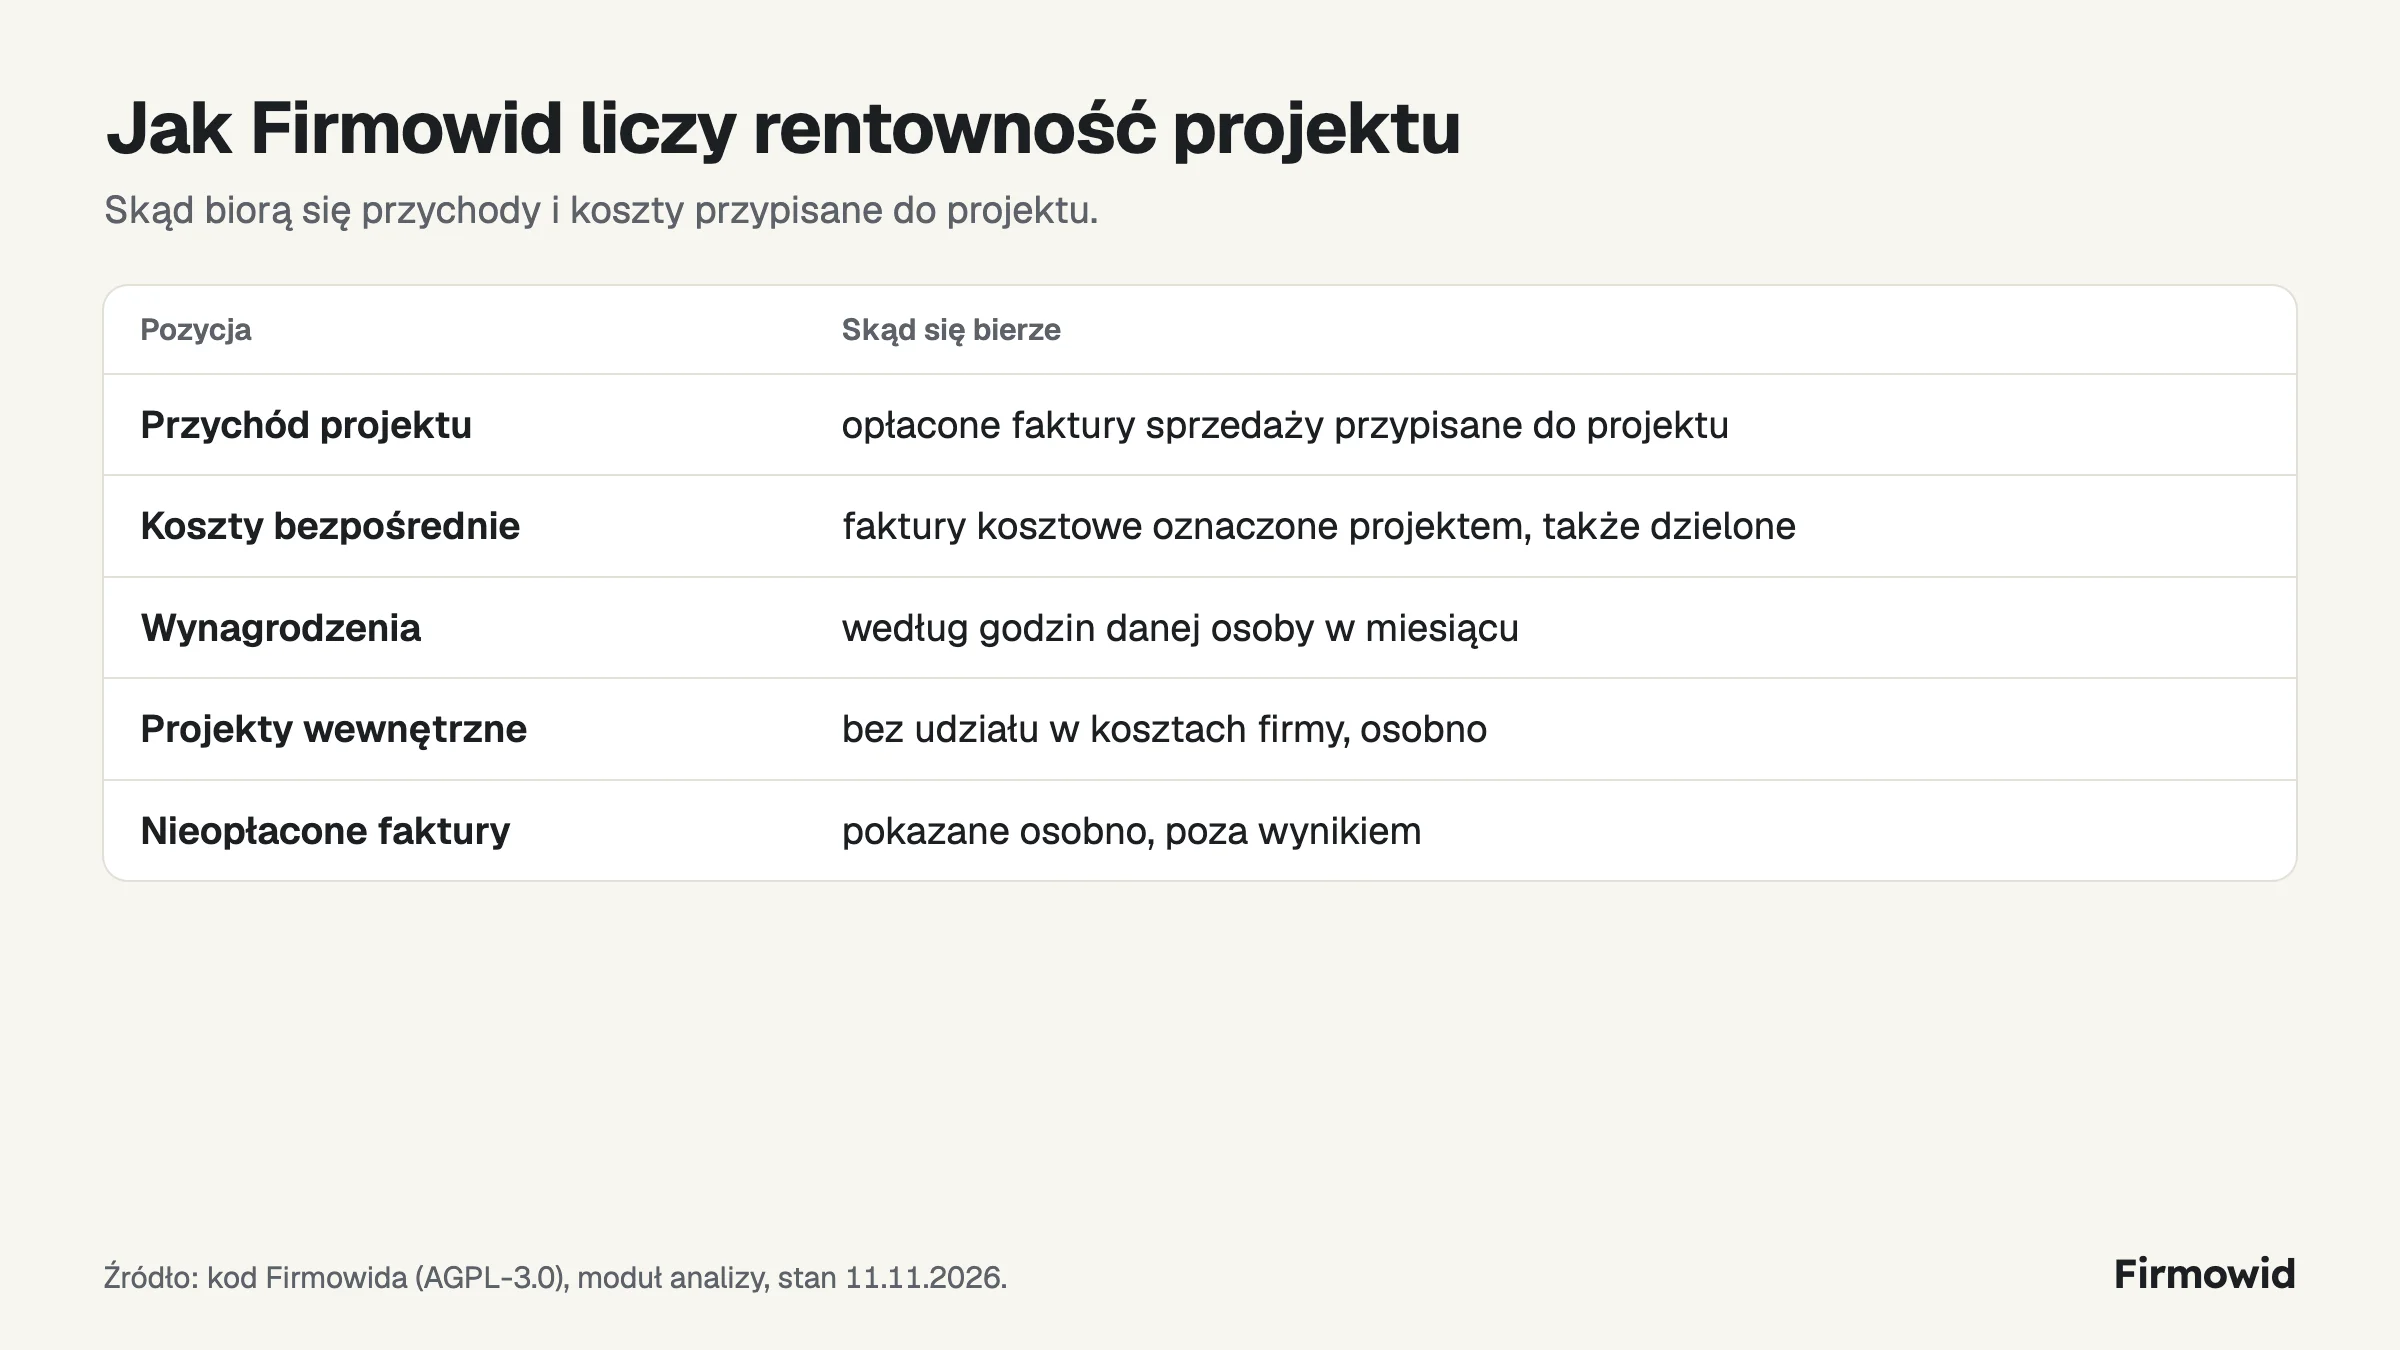
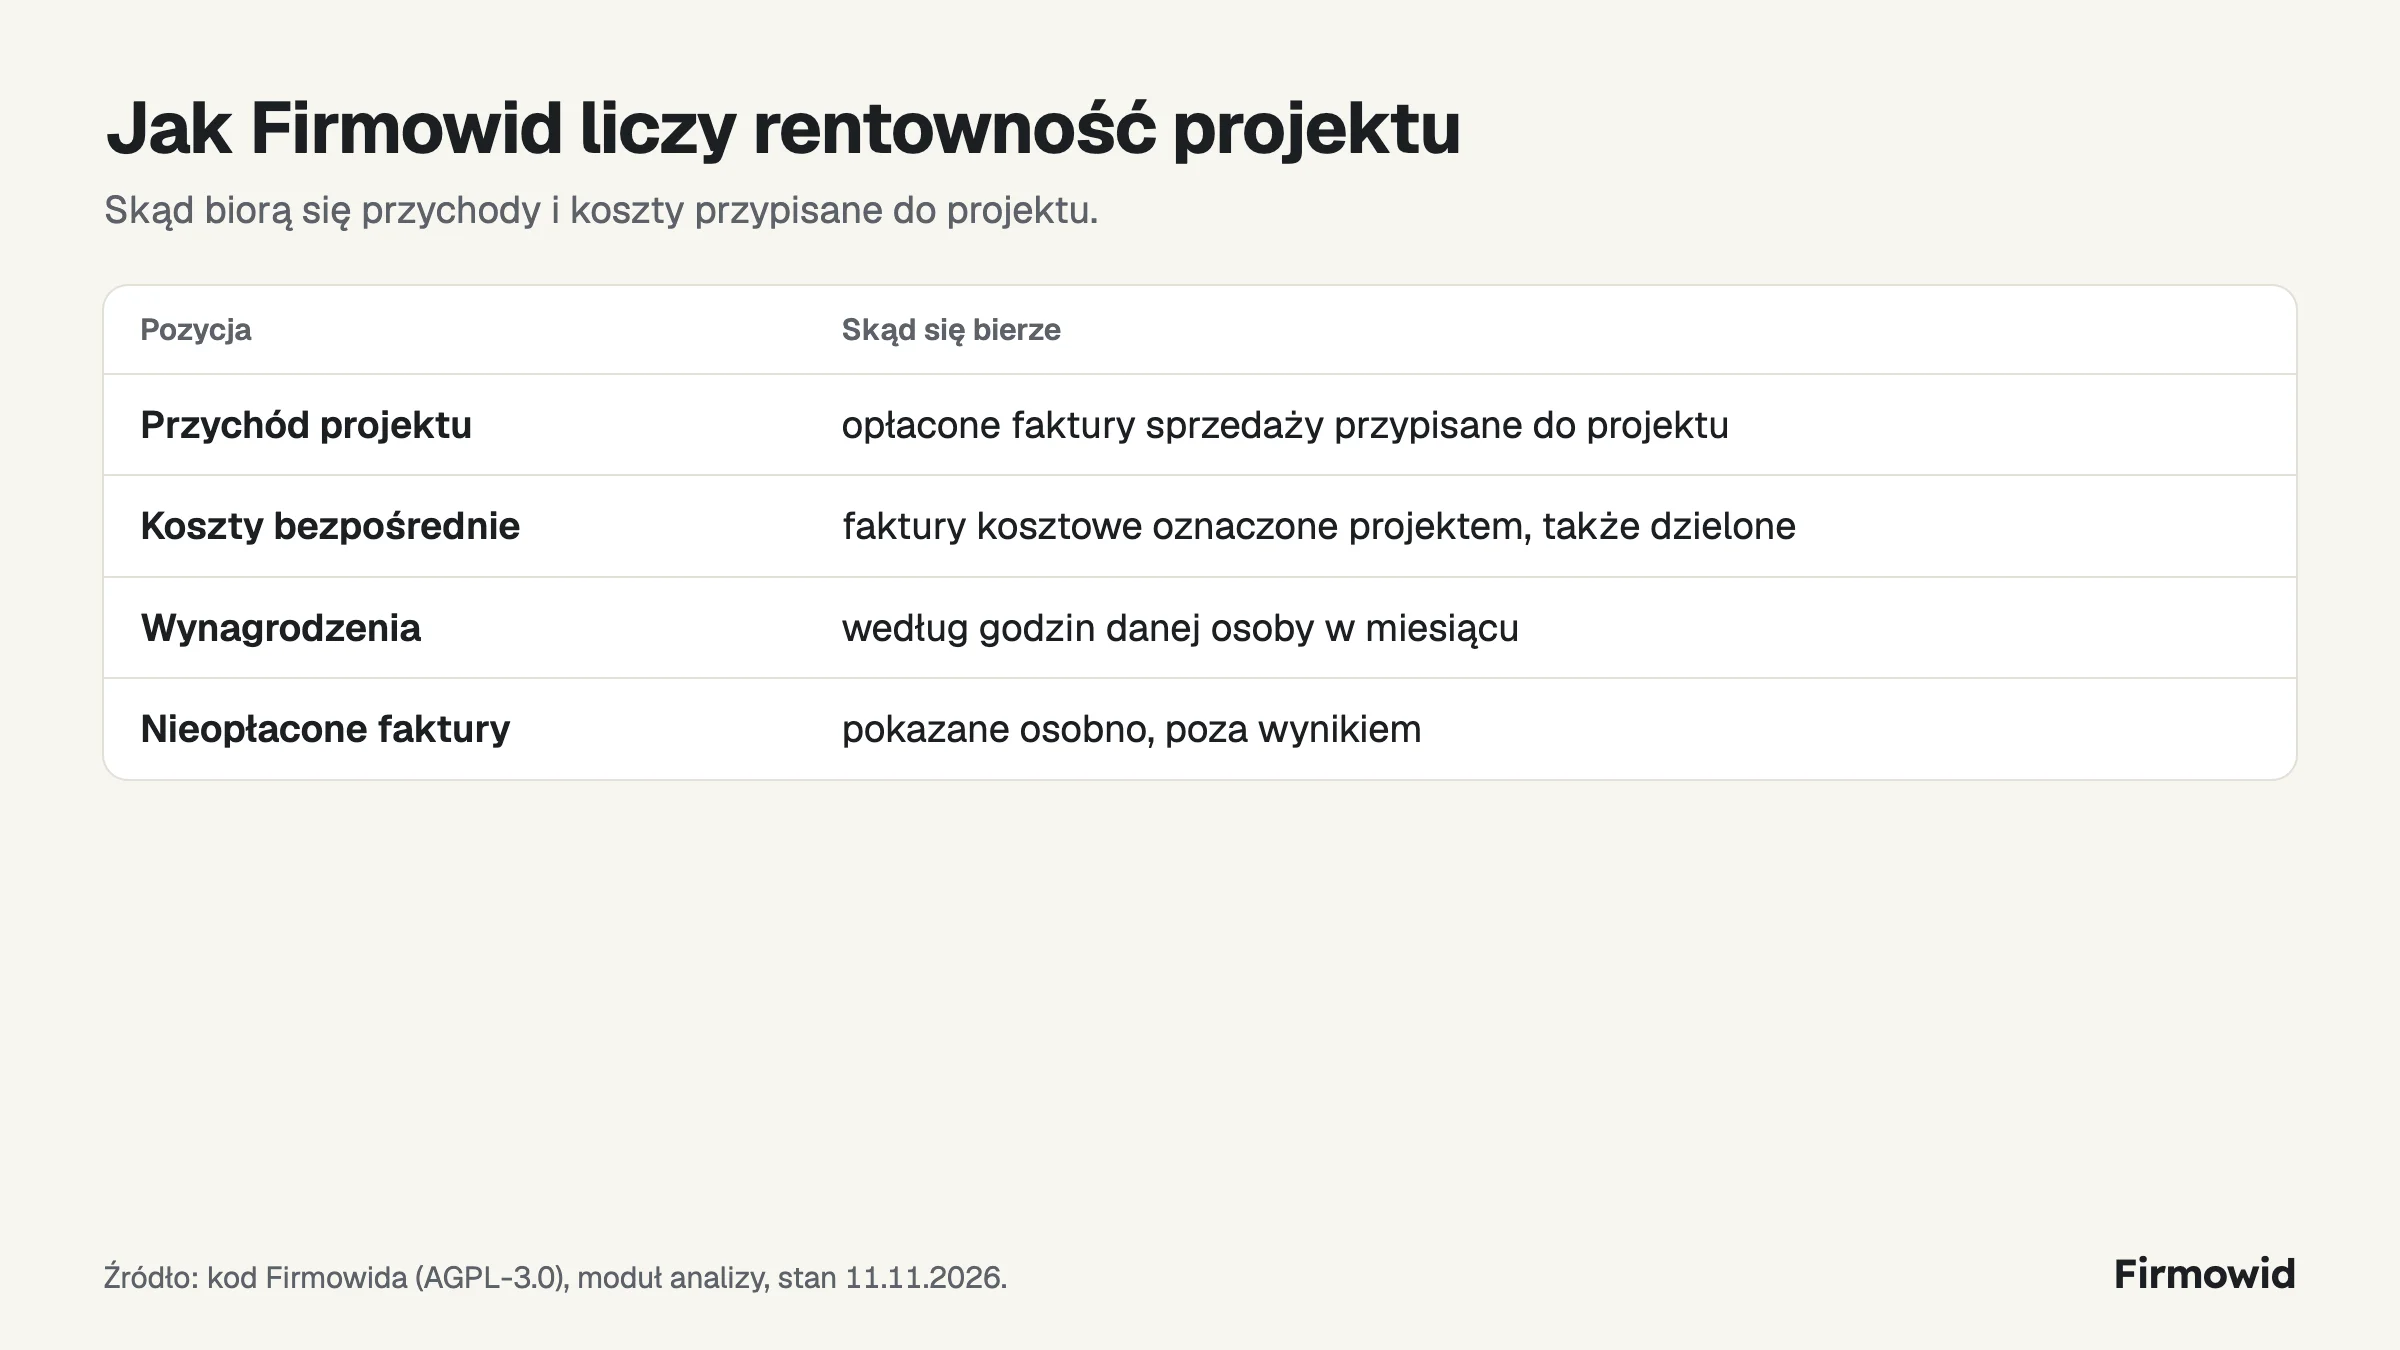
fix(guides): drop the internal projects row from the profitability guide
The row described projects as excluded from a share of company
costs, which no longer has a counterpart in the table.

diff --git a/priv/guides/rentownosc-projektu-firma-uslugowa.md b/priv/guides/rentownosc-projektu-firma-uslugowa.md
@@ -49,14 +49,13 @@ Na podstawie rentowności projektów byliśmy w stanie przedstawić klientowi so
 | Przychód projektu | opłacone faktury sprzedaży przypisane do projektu |
 | Koszty bezpośrednie | faktury kosztowe i wydatki oznaczone projektem, także dzielone między kilka projektów |
 | Wynagrodzenia | dzielone między projekty według godzin danej osoby w miesiącu |
-| Projekty wewnętrzne | bez udziału w kosztach firmy, widoczne osobno |
 | Nieopłacone faktury | pokazane osobno, poza wynikiem |
 
 W Firmowidzie te liczby zbiera [Analiza przychodów i kosztów](/funkcje/analiza), w której widok Trendy można zawęzić do jednego projektu.
 
 W iFirmie projekt też zbiera przychody i koszty, ale wynagrodzenia pracowników dodaje się do niego ręcznie.
 
-![Rentowność projektu w Firmowidzie: przychód to opłacone faktury przypisane do projektu, koszty bezpośrednie to faktury oznaczone projektem, wynagrodzenia dzieli się według godzin, projekty wewnętrzne są osobno, a nieopłacone faktury poza wynikiem.](/images/guides/rentownosc-projektu-jak-liczymy.webp)
+![Rentowność projektu w Firmowidzie: przychód to opłacone faktury przypisane do projektu, koszty bezpośrednie to faktury oznaczone projektem, wynagrodzenia dzieli się według godzin, a nieopłacone faktury są poza wynikiem.](/images/guides/rentownosc-projektu-jak-liczymy.webp)
 
 ## Źródła
 
